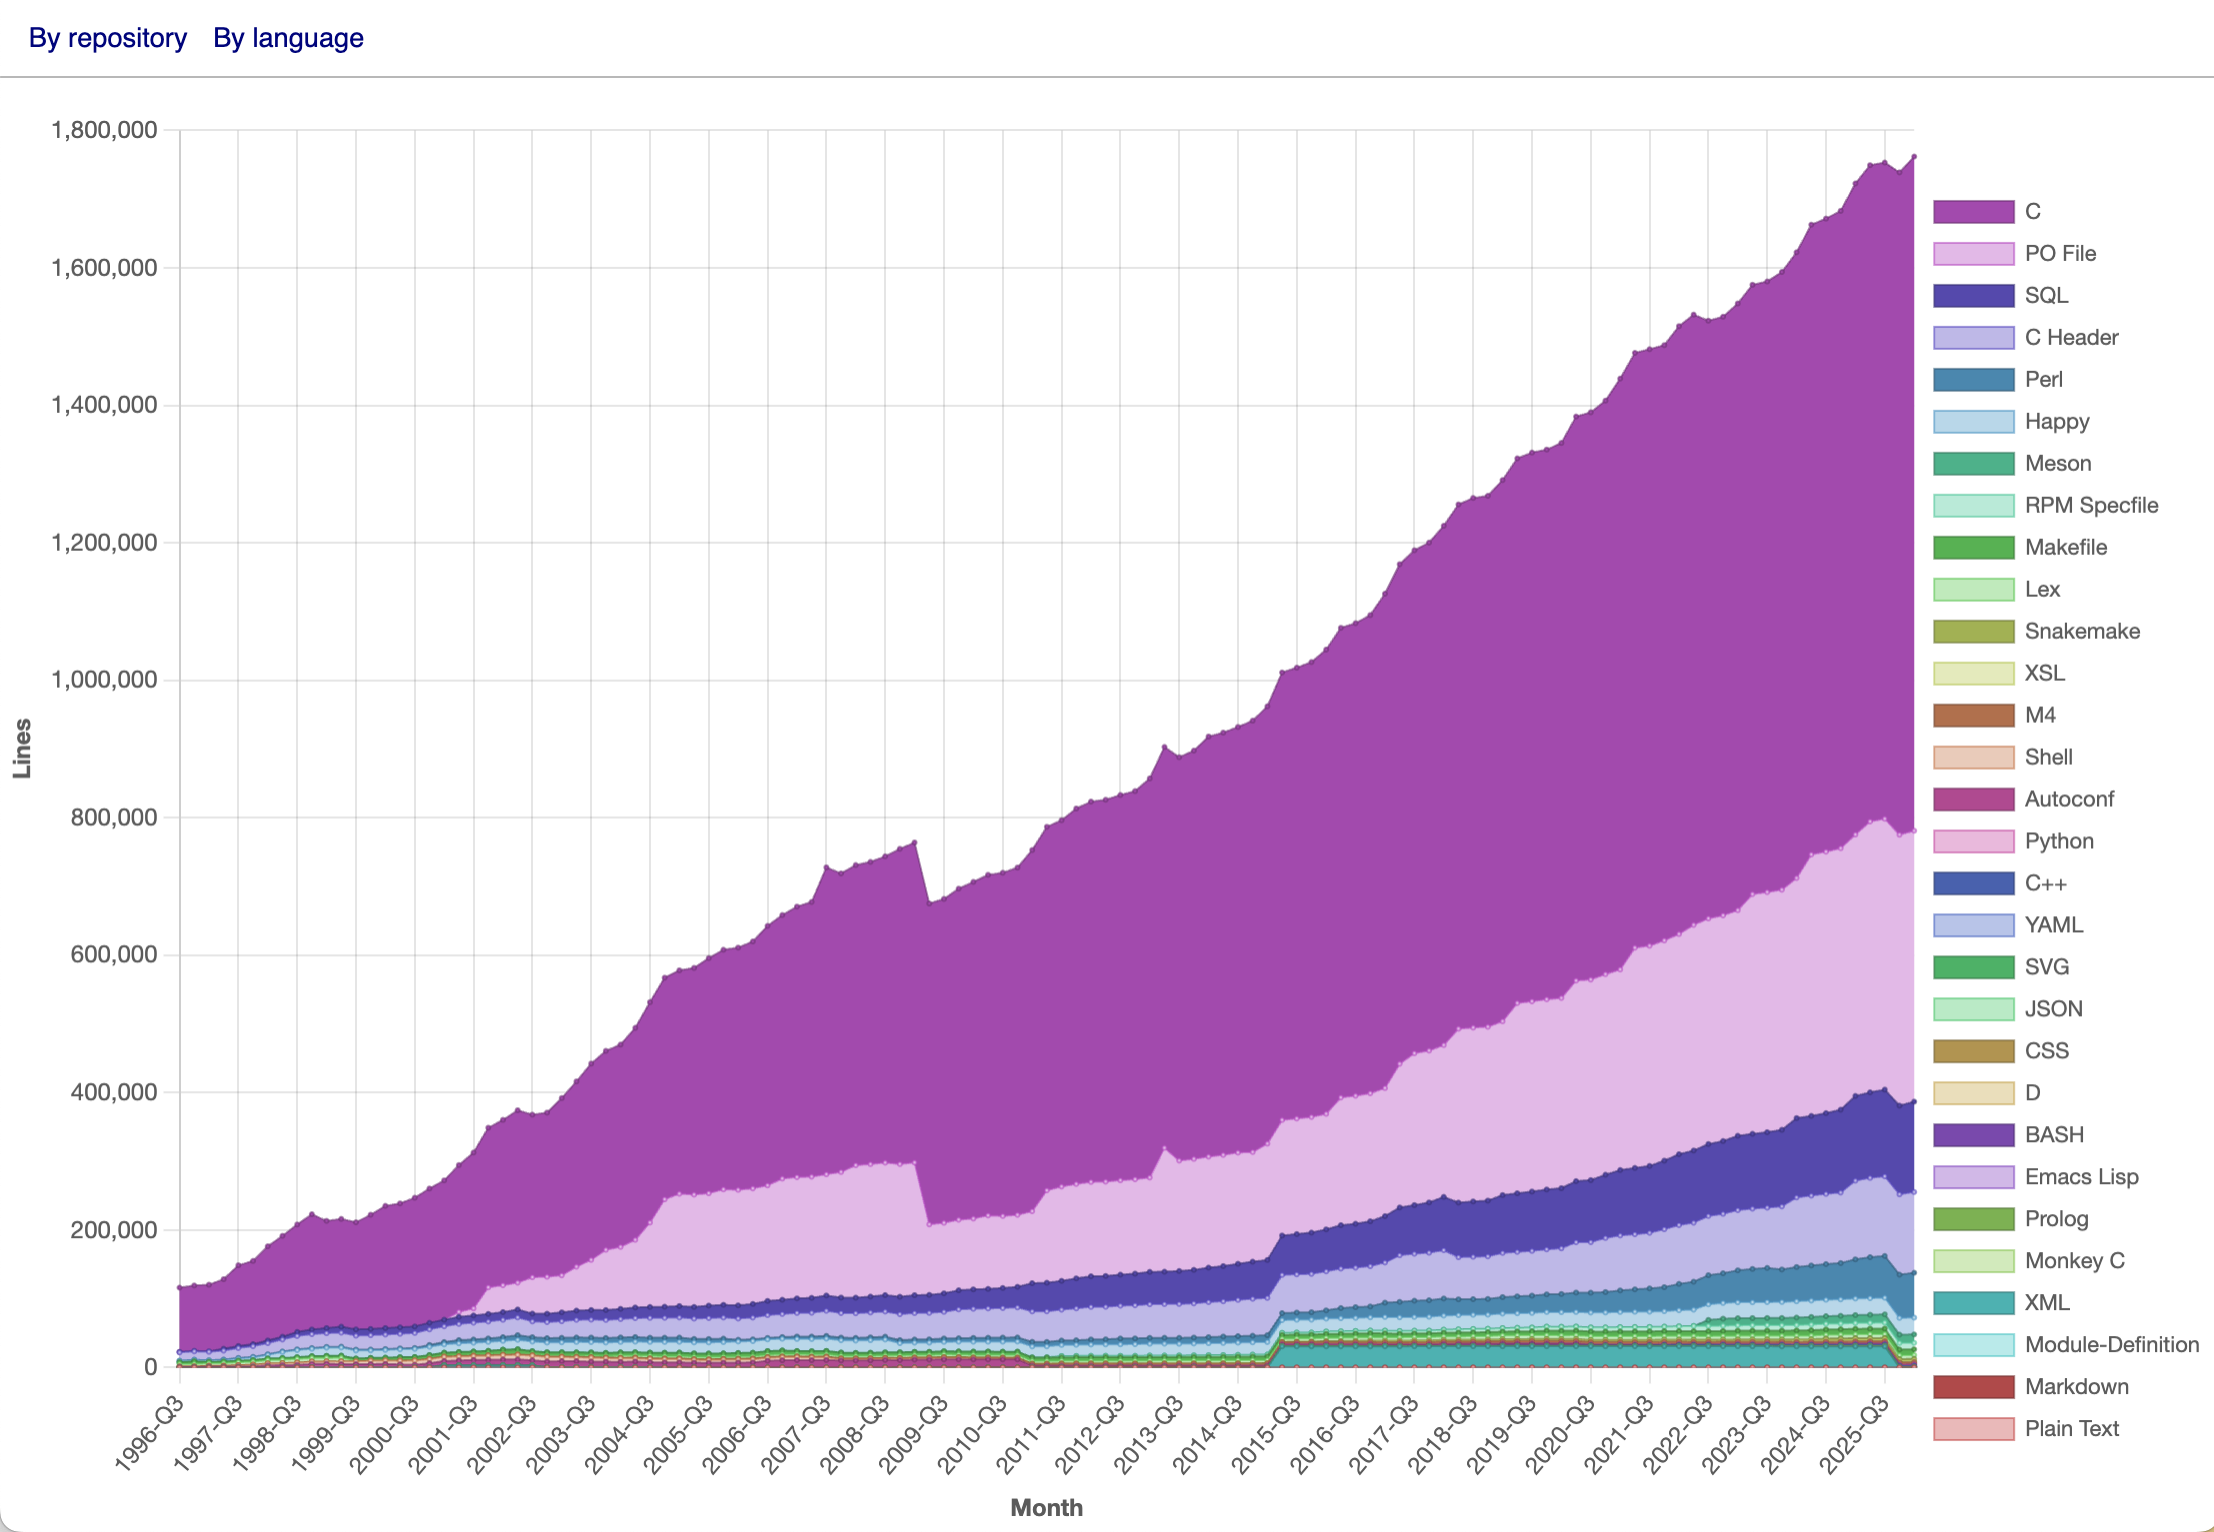
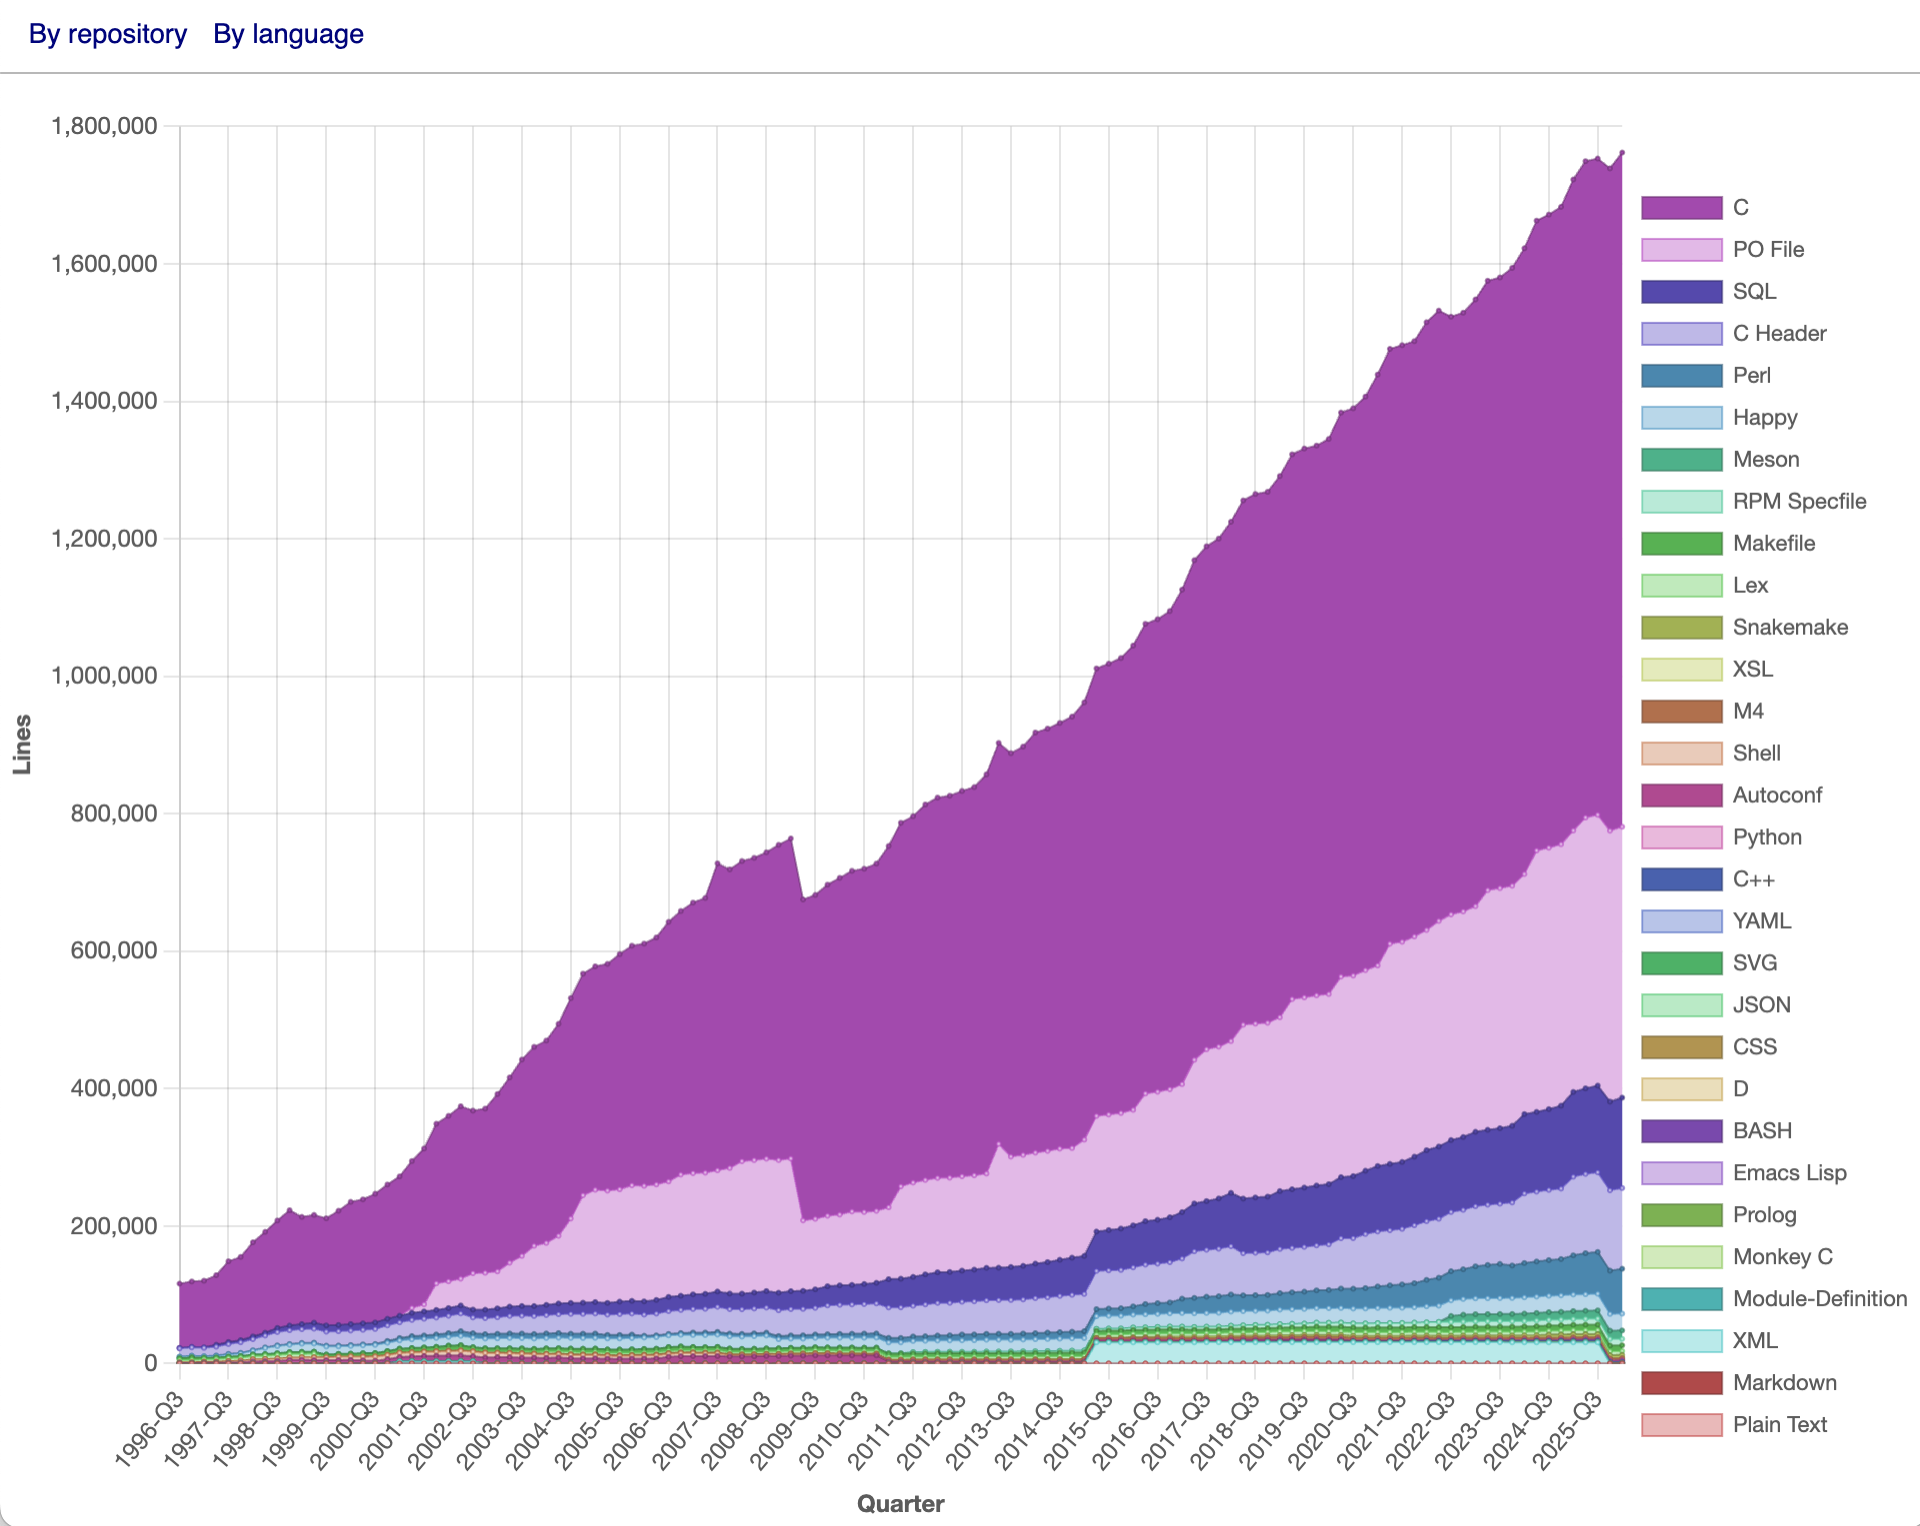
Fix x label

diff --git a/templates/chart.js b/templates/chart.js
@@ -37,7 +37,7 @@ const options = {
         x: {
             title: {
                 display: true,
-                text: 'Month',
+                text: period_label,
                 font: { weight: 'bold' }
             }
         },

diff --git a/src/time_period.rs b/src/time_period.rs
@@ -10,6 +10,9 @@ pub trait TimePeriod: Ord + Copy + Display + Debug + Send + Sync {
     /// Advances to the next period in-place.
     fn inc(&mut self);
 
+    /// Human-readable label for the x-axis (e.g. "Week", "Month", "Quarter").
+    fn axis_label() -> &'static str;
+
     /// Returns the period that contains the current instant.
     fn current() -> Self {
         Self::from_datelike(Utc::now())
@@ -58,6 +61,10 @@ impl TimePeriod for YearMonth {
         Self { year: datelike.year(), month: datelike.month() }
     }
 
+    fn axis_label() -> &'static str {
+        "Month"
+    }
+
     fn inc(&mut self) {
         if self.month == 12 {
             self.year += 1;
@@ -88,6 +95,10 @@ pub struct YearQuarter {
 impl TimePeriod for YearQuarter {
     fn from_datelike<T: Datelike>(datelike: T) -> Self {
         Self { year: datelike.year(), quarter: (datelike.month() - 1) / 3 + 1 }
+    }
+
+    fn axis_label() -> &'static str {
+        "Quarter"
     }
 
     fn inc(&mut self) {
@@ -126,6 +137,10 @@ impl TimePeriod for YearWeek {
         let date = NaiveDate::from_ymd_opt(datelike.year(), datelike.month(), datelike.day()).unwrap();
         let iso = date.iso_week();
         Self { year: iso.year(), week: iso.week() }
+    }
+
+    fn axis_label() -> &'static str {
+        "Week"
     }
 
     fn inc(&mut self) {

diff --git a/src/charts.rs b/src/charts.rs
@@ -35,9 +35,13 @@ pub fn write_output<P: TimePeriod>(
     copy_file_from_embedded(output_dir, "chart.js")?;
     copy_file_from_embedded(output_dir, "chart.css")?;
 
+    let period_label = P::axis_label();
     let data_file = output_dir.join("data.js");
-    fs::write(&data_file, format!("by_repo_data = {by_repo_data};\nby_lang_data = {by_lang_data};\n"))
-        .with_context(|| format!("cannot write file {}", data_file.display()))?;
+    fs::write(
+        &data_file,
+        format!("by_repo_data = {by_repo_data};\nby_lang_data = {by_lang_data};\nperiod_label = \"{period_label}\";\n"),
+    )
+    .with_context(|| format!("cannot write file {}", data_file.display()))?;
     Ok(output_dir.join("chart.html"))
 }
 
